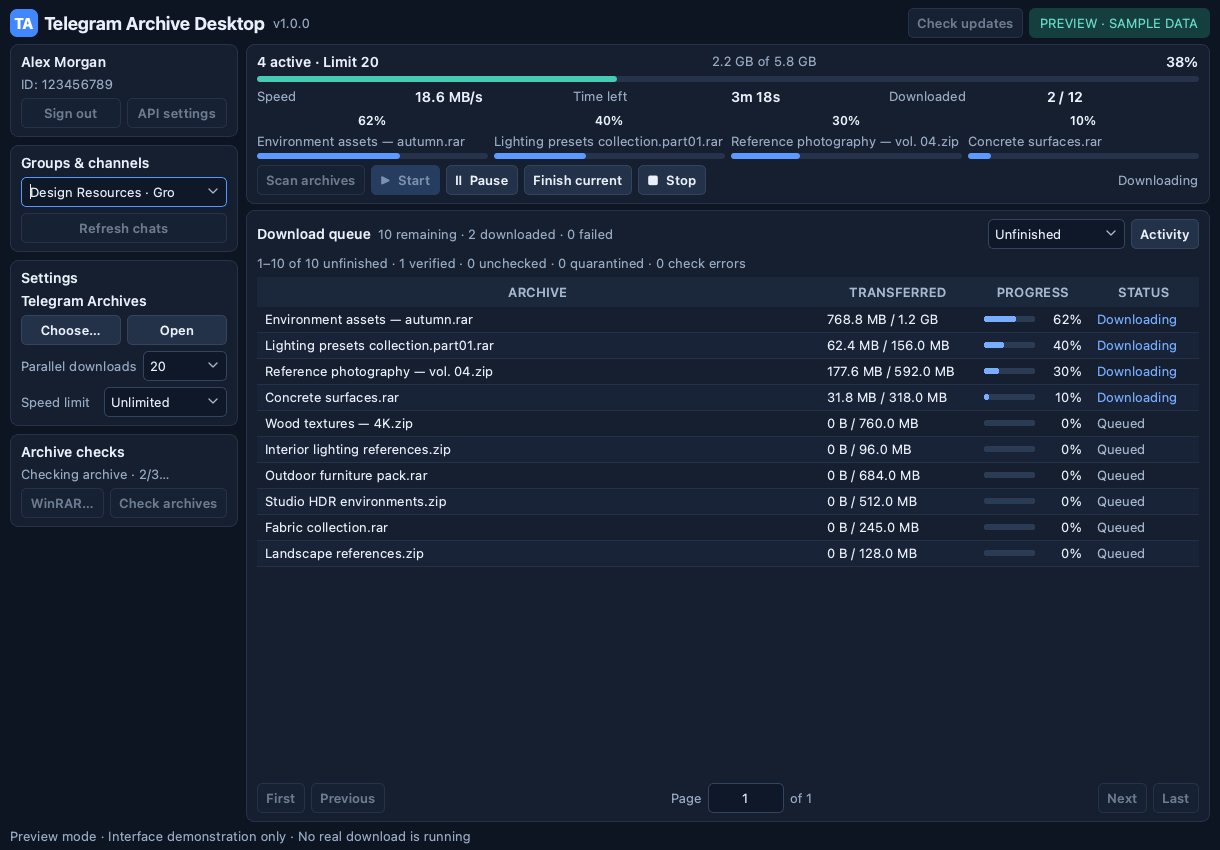
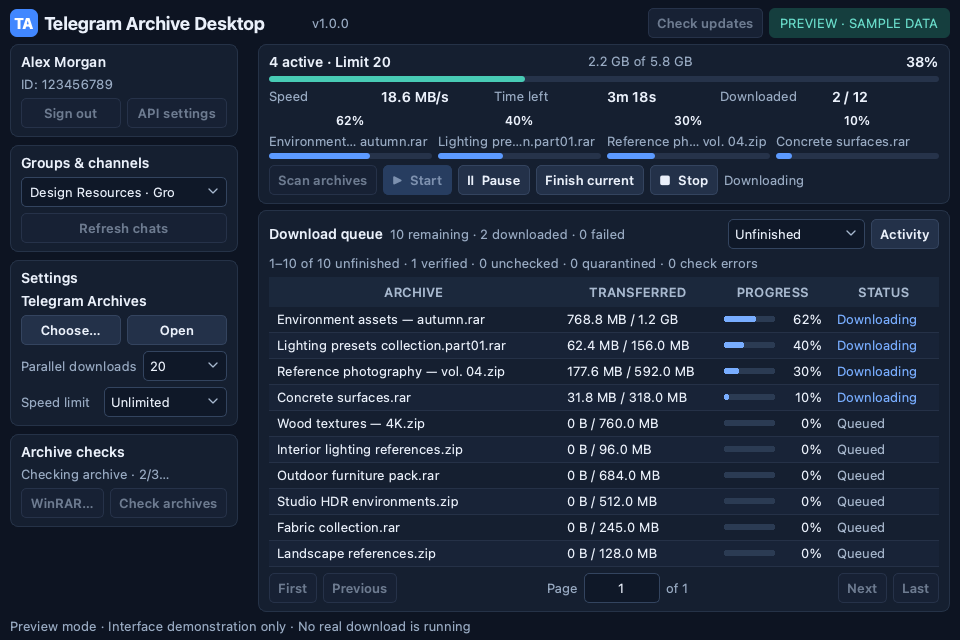
Add smaller responsive window with compact settings access

diff --git a/tgzip/ui.py b/tgzip/ui.py
@@ -7,7 +7,7 @@ from PySide6.QtGui import QColor, QDesktopServices, QFont, QFontMetrics, QImage,
 from PySide6.QtWidgets import (QAbstractItemView, QComboBox, QDialog, QDialogButtonBox,
     QFileDialog, QFormLayout, QFrame, QGridLayout, QHBoxLayout, QHeaderView, QInputDialog,
     QLabel, QLineEdit, QMainWindow, QMessageBox, QPlainTextEdit, QProgressBar, QPushButton,
-    QSizePolicy, QStyledItemDelegate, QStyleOptionViewItem, QStyleOptionComboBox, QStyle,
+    QSizePolicy, QScrollArea, QStyledItemDelegate, QStyleOptionViewItem, QStyleOptionComboBox, QStyle,
     QTableWidget, QTableWidgetItem, QVBoxLayout, QWidget)
 from .security import validate_keys
 from .storage import parallel_downloads, speed_limit, SPEED_LIMITS, QUEUE_PAGE_SIZE
@@ -44,6 +44,10 @@ QTableWidget { background: #151f30; alternate-background-color: #182337; border:
 QTableWidget::item { padding: 3px 5px; border-bottom: 1px solid #253147; }
 QHeaderView::section { background: #1b283c; color: #a8b9cf; padding: 5px; border: none; font-weight: 600; }
 QPlainTextEdit { background: #101929; border: 1px solid #26354c; border-radius: 8px; padding: 8px; color: #acbdd3; font-size: 12px; }
+QScrollBar:horizontal { background: #131d2e; height: 9px; }
+QScrollBar::handle:horizontal { background: #394b68; min-width: 24px; border-radius: 4px; }
+QScrollBar::add-line:horizontal, QScrollBar::sub-line:horizontal { width: 0; }
+QScrollBar::add-page:horizontal, QScrollBar::sub-page:horizontal { background: #131d2e; }
 QScrollBar:vertical { background: #131d2e; width: 9px; }
 QScrollBar::handle:vertical { background: #394b68; min-height: 24px; border-radius: 4px; }
 QScrollBar::add-line:vertical, QScrollBar::sub-line:vertical { height: 0; }
@@ -341,8 +345,8 @@ class Window(QMainWindow):
         self.verification_info = None
         self.update_plan = None
         self.setWindowTitle(f'Telegram Archive Desktop v{__version__}' + (' — Preview' if demo else ''))
-        self.resize(1220, 850)
-        self.setMinimumSize(1000, 680)
+        self.resize(960, 640)
+        self.setMinimumSize(500, 340)
         self.setStyleSheet(STYLE)
         self.build_ui()
         self.timer = QTimer(self)
@@ -368,19 +372,22 @@ class Window(QMainWindow):
         header.addWidget(logo)
         title_box = QHBoxLayout()
         title_box.setSpacing(8)
-        title_box.addWidget(label('Telegram Archive Desktop', 'title'))
+        self.title_label = ElidedLabel('Telegram Archive Desktop', 'title')
+        title_box.addWidget(self.title_label, 1)
         self.version_label = label(f'v{__version__}', 'muted')
         self.version_label.setToolTip('Application version')
         title_box.addWidget(self.version_label)
         header.addLayout(title_box)
         header.addStretch()
+        self.panel_btn = button('Settings', self.show_panel)
+        header.addWidget(self.panel_btn)
         self.update_btn = button('Check updates', lambda: self.send('update'))
         self.update_btn.setToolTip('Install the latest GitHub version and restart. Stop active operations first.')
         header.addWidget(self.update_btn)
         self.badge = label('NOT CONNECTED', 'badge')
         header.addWidget(self.badge)
         page.addLayout(header)
-        body = QHBoxLayout()
+        body = self.body_layout = QHBoxLayout()
         body.setSpacing(8)
         sidebar = QVBoxLayout()
         sidebar.setSpacing(8)
@@ -466,14 +473,28 @@ class Window(QMainWindow):
         checks.addLayout(check_actions)
         sidebar.addWidget(check_card)
         sidebar.addStretch()
-        body.addWidget(sidebar_widget)
+        self.sidebar_scroll = QScrollArea()
+        self.sidebar_scroll.setFrameShape(QFrame.Shape.NoFrame)
+        self.sidebar_scroll.setWidgetResizable(True)
+        self.sidebar_scroll.setHorizontalScrollBarPolicy(Qt.ScrollBarPolicy.ScrollBarAlwaysOff)
+        self.sidebar_scroll.setFixedWidth(240)
+        self.sidebar_scroll.setWidget(sidebar_widget)
+        body.addWidget(self.sidebar_scroll)
+        self.panel_dialog = QDialog(self)
+        self.panel_dialog.setWindowTitle('Settings')
+        self.panel_dialog.resize(280, 560)
+        self.panel_layout = QVBoxLayout(self.panel_dialog)
+        panel_close = QDialogButtonBox(QDialogButtonBox.StandardButton.Close)
+        panel_close.rejected.connect(self.panel_dialog.reject)
+        self.panel_layout.addWidget(panel_close)
+        self.panel_dialog.finished.connect(self.restore_panel)
         content = QVBoxLayout()
         content.setSpacing(6)
         current_card, current = card()
         file_heading = QHBoxLayout()
         self.file_name = ElidedLabel('No active download', 'section')
         file_heading.addWidget(self.file_name, 1)
-        self.file_status = label('Ready', 'muted')
+        self.file_status = ElidedLabel('Ready', 'muted')
         current.addLayout(file_heading)
         self.file_bar = QProgressBar()
         self.file_bar.setObjectName('overall')
@@ -485,7 +506,10 @@ class Window(QMainWindow):
         file_heading.addWidget(self.byte_label, 1)
         file_heading.addWidget(self.percent_label)
         current.addWidget(self.file_bar)
-        metrics = QHBoxLayout()
+        self.metrics_widget = QWidget()
+        self.metrics_widget.setObjectName('transparent')
+        metrics = QHBoxLayout(self.metrics_widget)
+        metrics.setContentsMargins(0, 0, 0, 0)
         self.speed_value, self.eta_value, self.done_value = label('—', 'metric'), label('—', 'metric'), label('0 / 0', 'metric')
         for caption, value in [('Speed', self.speed_value), ('Time left', self.eta_value), ('Downloaded', self.done_value)]:
             column = QHBoxLayout()
@@ -493,14 +517,20 @@ class Window(QMainWindow):
             column.addWidget(label(caption, 'muted'))
             column.addWidget(value)
             metrics.addLayout(column)
-        current.addLayout(metrics)
+        current.addWidget(self.metrics_widget)
         self.active_strip = QWidget()
         self.active_strip.setObjectName('transparent')
         self.active_layout = QHBoxLayout(self.active_strip)
         self.active_layout.setContentsMargins(0, 0, 0, 0)
         self.active_layout.setSpacing(6)
-        self.active_strip.hide()
-        current.addWidget(self.active_strip)
+        self.active_scroll = QScrollArea()
+        self.active_scroll.setObjectName('transparent')
+        self.active_scroll.setFrameShape(QFrame.Shape.NoFrame)
+        self.active_scroll.setWidgetResizable(True)
+        self.active_scroll.setVerticalScrollBarPolicy(Qt.ScrollBarPolicy.ScrollBarAlwaysOff)
+        self.active_scroll.setWidget(self.active_strip)
+        self.active_scroll.hide()
+        current.addWidget(self.active_scroll)
         controls = QHBoxLayout()
         self.scan_btn = button('Scan archives', lambda: self.send('scan'))
         self.start_btn = button('▶  Start', lambda: self.send('start'), True)
@@ -511,8 +541,7 @@ class Window(QMainWindow):
         self.stop_btn.setToolTip('Stop immediately and keep partial files for the next Start.')
         for btn in (self.scan_btn, self.start_btn, self.pause_btn, self.finish_btn, self.stop_btn):
             controls.addWidget(btn)
-        controls.addStretch()
-        controls.addWidget(self.file_status)
+        controls.addWidget(self.file_status, 1)
         current.addLayout(controls)
         content.addWidget(current_card)
         queue_card, queue = card()
@@ -526,7 +555,7 @@ class Window(QMainWindow):
         self.queue_filter.setToolTip('Filter the saved queue without changing downloads. Downloaded includes unchecked and quarantined archives.')
         self.queue_filter.currentIndexChanged.connect(lambda: self.request_queue_page(0))
         queue_heading.addWidget(self.queue_filter)
-        self.activity_toggle = button('Activity', lambda: self.activity.setVisible(self.activity_toggle.isChecked()))
+        self.activity_toggle = button('Activity', self.toggle_activity)
         self.activity_toggle.setCheckable(True)
         self.activity_toggle.setToolTip('Show or hide the session log.')
         queue_heading.addWidget(self.activity_toggle)
@@ -546,7 +575,7 @@ class Window(QMainWindow):
         self.table.horizontalHeader().setSectionResizeMode(0, QHeaderView.ResizeMode.Stretch)
         for index, width in [(1, 158), (2, 112), (3, 110)]:
             self.table.setColumnWidth(index, width)
-        self.table.setMinimumHeight(200)
+        self.table.setMinimumHeight(60)
         queue.addWidget(self.table, 1)
         paging = QHBoxLayout()
         self.first_page = button('First', lambda: self.request_queue_page(0))
@@ -575,14 +604,77 @@ class Window(QMainWindow):
         self.activity = QPlainTextEdit()
         self.activity.setReadOnly(True)
         self.activity.setMaximumBlockCount(500)
-        self.activity.setFixedHeight(72)
-        self.activity.hide()
+        self.activity_dialog = QDialog(self)
+        self.activity_dialog.setWindowTitle('Activity')
+        self.activity_dialog.resize(480, 280)
+        activity_layout = QVBoxLayout(self.activity_dialog)
+        activity_layout.addWidget(self.activity)
+        self.activity_dialog.finished.connect(lambda: self.activity_toggle.setChecked(False))
         self.activity.setPlaceholderText('Connection, scan, and download updates will appear here.')
-        content.addWidget(self.activity)
         body.addLayout(content, 1)
         page.addLayout(body, 1)
         self.footer = ElidedLabel('Ready', 'muted')
         page.addWidget(self.footer)
+        self.apply_window_layout()
+
+    def resizeEvent(self, event):
+        super().resizeEvent(event)
+        if hasattr(self, 'footer'):
+            self.apply_window_layout()
+
+    def apply_window_layout(self):
+        narrow = self.width() < 900 or self.height() < 540
+        small = self.width() < 700
+        short = self.height() < 500
+        self.panel_btn.setVisible(narrow)
+        if not self.panel_dialog.isVisible():
+            self.sidebar_scroll.setVisible(not narrow)
+        self.badge.setVisible(not narrow)
+        self.title_label.setText('Telegram Archives' if small else 'Telegram Archive Desktop')
+        self.title_label.setFixedWidth(160 if small else 260)
+        self.scan_btn.setText('Scan' if small else 'Scan archives')
+        self.scan_btn.setToolTip('Scan archives in the selected chat.')
+        self.file_status.setVisible(not small)
+        self.metrics_widget.setVisible(not short)
+        self.total_label.setVisible(not short)
+        self.footer.setVisible(not short)
+        self.queue_caption.setVisible(not small)
+        count = len(self.transfer_tiles)
+        strip_width = max(0, count * (40 if small else 32) + (count - 1) * 6)
+        self.active_strip.setMinimumWidth(strip_width)
+        available_width = self.width() - 40 - (248 if not narrow else 0)
+        self.active_scroll.setFixedHeight((28 if short else 48) + (12 if strip_width > available_width else 0))
+        for tile in self.transfer_tiles.values():
+            tile.name.setVisible(not short)
+            tile.setFixedHeight(28 if short else 48)
+        for widget, full, compact in ((self.first_page, 'First', '«'), (self.prev_page, 'Previous', '‹'),
+                                      (self.next_page, 'Next', '›'), (self.last_page, 'Last', '»')):
+            widget.setText(compact if small else full)
+            widget.setToolTip(full + ' page')
+        self.page_number.setFixedWidth(52 if small else 76)
+        self.table.horizontalHeader().setSectionResizeMode(0, QHeaderView.ResizeMode.Interactive if small
+                                                         else QHeaderView.ResizeMode.Stretch)
+        if small:
+            self.table.setColumnWidth(0, 180)
+
+    def show_panel(self):
+        if self.panel_dialog.isVisible():
+            self.panel_dialog.raise_()
+            return
+        self.body_layout.removeWidget(self.sidebar_scroll)
+        self.panel_layout.insertWidget(0, self.sidebar_scroll, 1)
+        self.sidebar_scroll.show()
+        self.panel_dialog.show()
+
+    def restore_panel(self):
+        self.panel_layout.removeWidget(self.sidebar_scroll)
+        self.body_layout.insertWidget(0, self.sidebar_scroll)
+        self.apply_window_layout()
+
+    def toggle_activity(self):
+        self.activity_dialog.setVisible(self.activity_toggle.isChecked())
+        if self.activity_toggle.isChecked():
+            self.activity_dialog.raise_()
 
     def boot(self):
         if self.bridge.ready.is_set():
@@ -723,7 +815,8 @@ class Window(QMainWindow):
                 self.transfer_tiles[message] = tile
                 self.active_layout.addWidget(tile, 1)
             self.transfer_tiles[message].update_job(job, paused=self.state == 'paused')
-        self.active_strip.setVisible(bool(self.transfer_tiles))
+        self.active_scroll.setVisible(bool(self.transfer_tiles))
+        self.apply_window_layout()
 
     def update_pager(self, force=False):
         self.page_number.validator().setTop(self.queue_pages)
@@ -1026,6 +1119,8 @@ class Window(QMainWindow):
             self.on_event('speed_reset', None)
 
     def closeEvent(self, event):
+        self.panel_dialog.close()
+        self.activity_dialog.close()
         if self.can_close or self.demo or not self.bridge or not self.bridge.thread.is_alive():
             event.accept()
             return

diff --git a/tests/test_ui.py b/tests/test_ui.py
@@ -42,7 +42,8 @@ class UITests(unittest.TestCase):
         self.app.processEvents()
         self.assertEqual(window.table.rowCount(), 10)
         self.assertFalse(window.activity.isVisible())
-        self.assertGreaterEqual(window.table.viewport().height() // window.table.rowHeight(0), 17)
+        self.assertEqual((window.width(), window.height()), (960, 640))
+        self.assertGreaterEqual(window.table.viewport().height() // window.table.rowHeight(0), 9)
         summary = window.transfers_info['summary']
         self.assertEqual(window.file_bar.value(), round(1000 * summary['received'] / summary['bytes']))
         self.assertEqual(window.file_name.text(), '4 active · Limit 20')
@@ -87,6 +88,63 @@ class UITests(unittest.TestCase):
         self.assertEqual((window.width(), window.height()), (1000, 680))
         self.assertEqual(window.footer.toolTip(), window.footer.text())
         window.close()
+
+    def test_half_size_window_keeps_controls_and_scrollable_downloads_accessible(self):
+        window = Window(demo=True)
+        window.show()
+        files = [dict(message=i, name=f'Archive {i}.zip', path=f'{i}.zip', size=100, done=i * 5)
+                 for i in range(1, 21)]
+        window.on_event('transfers', dict(window.transfers_info, files=files, active=20))
+        for state in ('downloading', 'paused', 'idle'):
+            window.on_event('state', state)
+            window.resize(500, 340)
+            for _ in range(5):
+                self.app.processEvents()
+            self.assertEqual((window.width(), window.height()), (500, 340))
+            for widget in (window.panel_btn, window.update_btn, window.scan_btn, window.start_btn,
+                           window.pause_btn, window.finish_btn, window.stop_btn, window.queue_filter,
+                           window.first_page, window.last_page, window.page_number, window.table):
+                self.assertTrue(widget.isVisible())
+                position = widget.mapTo(window, widget.rect().topLeft())
+                self.assertGreaterEqual(position.x(), 0)
+                self.assertGreaterEqual(position.y(), 0)
+                self.assertLessEqual(position.x() + widget.width(), window.width())
+                self.assertLessEqual(position.y() + widget.height(), window.height())
+            self.assertGreaterEqual(window.table.viewport().height(), window.table.rowHeight(0))
+        scroll = window.active_scroll.horizontalScrollBar()
+        self.assertGreater(scroll.maximum(), 0)
+        scroll.setValue(scroll.maximum())
+        self.app.processEvents()
+        last = window.transfer_tiles[20]
+        self.assertEqual(last.percent.text(), '100%')
+        self.assertGreaterEqual(last.percent.width(), last.percent.fontMetrics().horizontalAdvance('100%'))
+        self.assertLessEqual(last.mapTo(window.active_scroll.viewport(), last.rect().topRight()).x(),
+                             window.active_scroll.viewport().width())
+        window.panel_btn.click()
+        self.app.processEvents()
+        self.assertTrue(window.panel_dialog.isVisible())
+        self.assertTrue(window.chat_box.isVisible())
+        self.assertTrue(window.parallel_box.isVisible())
+        window.panel_dialog.close()
+        self.app.processEvents()
+        self.assertFalse(window.sidebar_scroll.isVisible())
+        window.activity_toggle.click()
+        self.app.processEvents()
+        self.assertTrue(window.activity_dialog.isVisible())
+        window.activity_dialog.close()
+        self.assertFalse(window.activity_toggle.isChecked())
+        window.resize(1000, 680)
+        for _ in range(5):
+            self.app.processEvents()
+        self.assertTrue(window.sidebar_scroll.isVisible())
+        self.assertFalse(window.panel_btn.isVisible())
+        self.assertEqual(len(window.transfer_tiles), 20)
+        window.show_panel()
+        window.activity_toggle.click()
+        self.app.processEvents()
+        window.close()
+        self.assertFalse(window.panel_dialog.isVisible())
+        self.assertFalse(window.activity_dialog.isVisible())
 
     def test_demo_process_renders_and_exits_cleanly(self):
         with tempfile.TemporaryDirectory() as directory:
@@ -148,6 +206,13 @@ class UITests(unittest.TestCase):
         tiles = list(window.transfer_tiles.values())
         for left, right in zip(tiles, tiles[1:]):
             self.assertGreaterEqual(right.x() - (left.x() + left.width()), 6)
+        for width in (900, 960, 1000):
+            window.resize(width, 680)
+            for _ in range(3):
+                self.app.processEvents()
+            for active_tile in window.transfer_tiles.values():
+                self.assertGreaterEqual(active_tile.percent.width(),
+                                        active_tile.percent.fontMetrics().horizontalAdvance('100%'))
         tile = window.transfer_tiles[3]
         window.on_event('progress', {'message': 3, 'done': 77, 'size': 100, 'speed': 10})
         self.assertEqual(tile.percent.text(), '77%')

diff --git a/docs/USER_GUIDE.md b/docs/USER_GUIDE.md
@@ -105,7 +105,9 @@ Use **Speed limit** in the same sidebar to select **Unlimited** (default), **10 
 
 The limit uses the same binary units as the progress display: 1 MB/s means 1,048,576 archive bytes per second. Requests are paced in chunks of up to 512 KiB, so short bursts and fluctuating displayed speeds are normal. Requests already in flight when you lower the limit may finish; the new budget applies to subsequent requests. Network/protocol overhead, Telegram metadata, and application-update downloads are outside this limit. Pause, Stop, and closing the window interrupt bandwidth waits and preserve partial files.
 
-The compact interface gives most of the window to the queue. Shorter controls and dense rows keep more archives visible without reducing the main text size. **Activity** in the queue header expands or collapses the session log; it is collapsed by default. **WinRAR…** and **Check archives** are grouped under **Archive checks** in the left sidebar, with a separate background-check status. Extra explanations and full truncated names are available in tooltips.
+The window opens at **960×640** and can shrink to **500×340**. Below 900 pixels wide or 540 pixels high, the sidebar moves into the **Settings** window; it contains the same account, chat, folder, download-limit, and archive-check controls. Widening the main window restores the sidebar after Settings closes. The active-file strip scrolls horizontally when the tiles need more space; in narrow windows the queue also scrolls horizontally. Very short windows hide secondary metrics and tile filenames, retaining progress percentages and tooltips. **Activity** opens a separate log window so it does not squeeze the queue. Closing the main window closes these auxiliary windows and performs the normal safe shutdown.
+
+The compact interface gives most of the window to the queue. Shorter controls and dense rows keep more archives visible without reducing the main text size. **Activity** in the queue header opens or closes the session log window; it is closed by default. **WinRAR…** and **Check archives** are grouped under **Archive checks** in the left sidebar, with a separate background-check status. Extra explanations and full truncated names are available in tooltips.
 
 Below the overall metrics, a single horizontal row shows **one progress bar for each active download**. Two simultaneous downloads show two bars; ten show ten, up to the 20-download limit. Percentages stay visible; long names are shortened to fit. Hover over a tile for its full filename, byte counts, status, and saved path. The row updates independently of the queue page and filter. Pause retains its progress; completed/stopped transfers leave the row as their slots close.
 

diff --git a/docs/VALIDATION.md b/docs/VALIDATION.md
@@ -1,5 +1,13 @@
 # Validation and release limits
 
+## Smaller, responsive window — 20 October 2026
+
+The default window is now 960×640 and the minimum is 500×340 (half the previous minimum width and height). Compact mode moves the existing sidebar controls into Settings on demand, provides horizontal scrolling for crowded active-transfer tiles and narrow queue columns, and abbreviates pagination buttons. Very short layouts hide secondary metrics and filename labels while preserving percentages and tooltips. Activity opens separately. Both auxiliary windows close with the main window.
+
+The full suite ran **189 tests** on macOS with Python **3.14.8** and portable PowerShell: **188 passed**, Windows DPAPI skipped. After the final tile-width adjustment, all **23 UI tests** passed again. Release validation on Python **3.15.0** ran all **189 tests**: **187 passed**, Windows DPAPI and unavailable cryptg skipped. The Python 3.14 interpreter probe and syntax checks also passed. Tests exercise 500×340 in downloading/paused/idle states, access to every main action and pager, a visible queue row, scrolling to the twentieth file's 100%, opening/closing Settings and Activity, restoring the sidebar on enlargement, and closing the main window with both dialogs open. Readable percentages are also checked at 900, 960, and 1000 pixels wide.
+
+The 960×640 default, 500×340 compact/paused layout with twenty transfers, and Settings dialog were visually inspected using real Qt offscreen rendering. The default documentation preview was refreshed. No Windows desktop or live Telegram account was used; Windows acceptance should check display scaling, resize breakpoints, scrollbar interaction, and focus/close behavior of the auxiliary windows.
+
 ## Simpler progress layout — 20 October 2026
 
 Removed the redundant selected-file bar, its heading, and Follow active control. The overall bar and active-transfer tiles remain, with six-pixel gaps between tiles. Percentage text adapts to narrow tiles. The queue receives the space freed by the removed controls.

diff --git a/docs/DEVELOPMENT.md b/docs/DEVELOPMENT.md
@@ -71,6 +71,12 @@ The public commits API identifies a specific main SHA. ZIP installs fetch that S
 
 The UI's update-ready event uses the normal close path. After the worker has stopped, the entry point launches a copied standard-library helper, records an in-progress marker while still holding the app lock, and exits. The helper waits for that PID, obtains the setup lock, applies the update, and restarts through bootstrap. ZIP installation journals the original files before replacement; rollback restores those files on write failure or the next launcher after interruption. Source replacement and dependency setup are separate steps; successful source installation is not rolled back for a later pip failure. Backups remain available under .updates.
 
+## Responsive window
+
+The main window opens at 960×640 with a 500×340 minimum. `apply_window_layout` responds to width and height breakpoints. A scrollable sidebar is moved into a non-modal Settings dialog on demand in compact mode and returned to the main layout when that dialog closes; this reuses live controls and avoids duplicate state or command connections. Activity uses a separate dialog at all sizes. Closing the main window closes both dialogs before shutdown.
+
+The active-transfer strip is hosted in a horizontal scroll area: tiles retain enough width for readable percentages, with scrolling whenever the available row width is insufficient. Short windows hide filename labels and secondary metrics. Narrow queue views use horizontal scrolling to preserve all columns and compact pagination labels. No window-layout change modifies download state, filters, or settings.
+
 ## Run tests
 
 From a terminal in the project directory:

diff --git a/README.md b/README.md
@@ -26,7 +26,8 @@ Intermediate download progress is batched into one database transaction about on
 
 ## What is included
 
-- Compact dark interface with dense queue rows, downloaded/total bytes and inline progress bars for each archive, overall and active-file progress, speed, time remaining, and a collapsible Activity log.
+- Resizable window: 960×640 at launch, down to 500×340, with settings accessible in a separate window at compact sizes.
+- Compact dark interface with dense queue rows, downloaded/total bytes and inline progress bars for each archive, overall and active-file progress, speed, time remaining, and a separate Activity log window.
 - A single horizontal row shows a separate progress bar and percentage for every active download, including while browsing other queue pages.
 - The queue opens in **Unfinished** mode. Switch to **Downloaded** or **All** and browse the entire saved history in pages of 200 files, with direct page-number navigation.
 - **Parallel downloads** changes live from 1 to 20. Raising it starts more files; lowering it lets active files finish before new ones start. The active count and selected limit are shown together.
